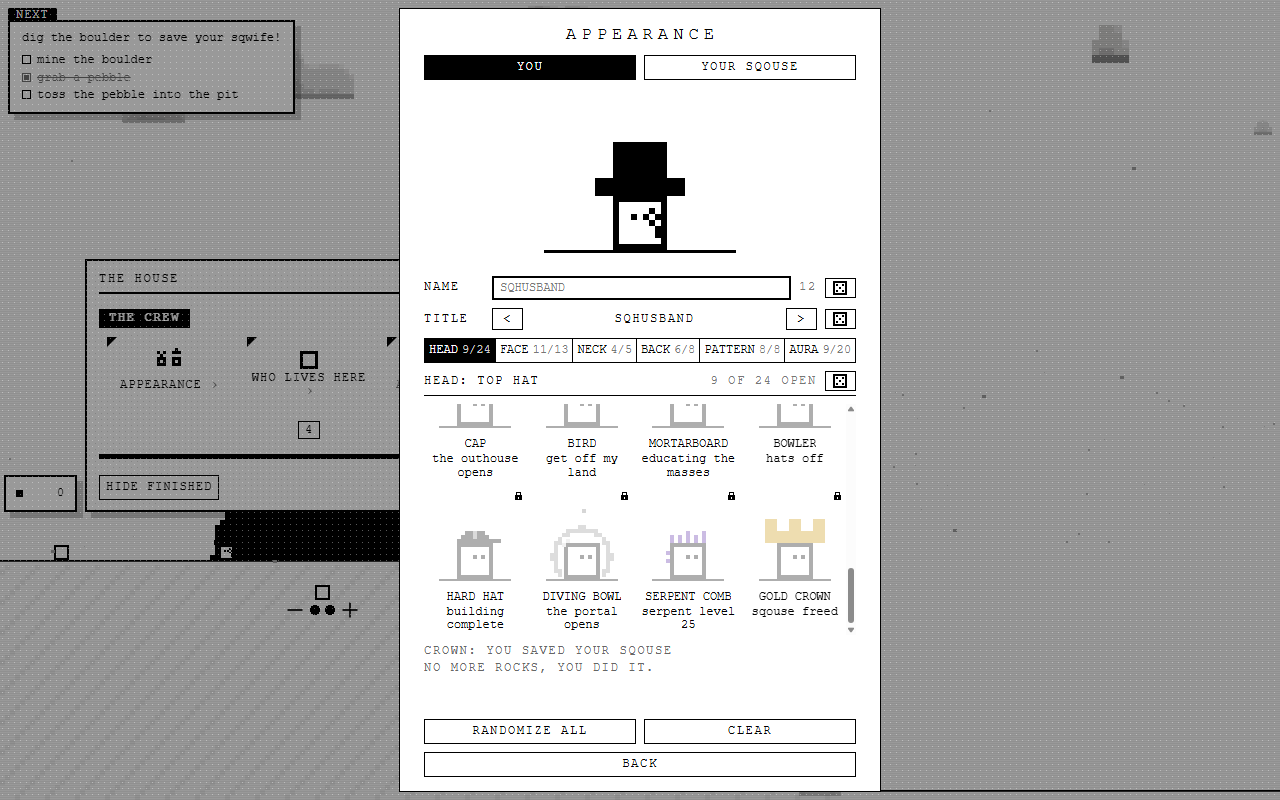
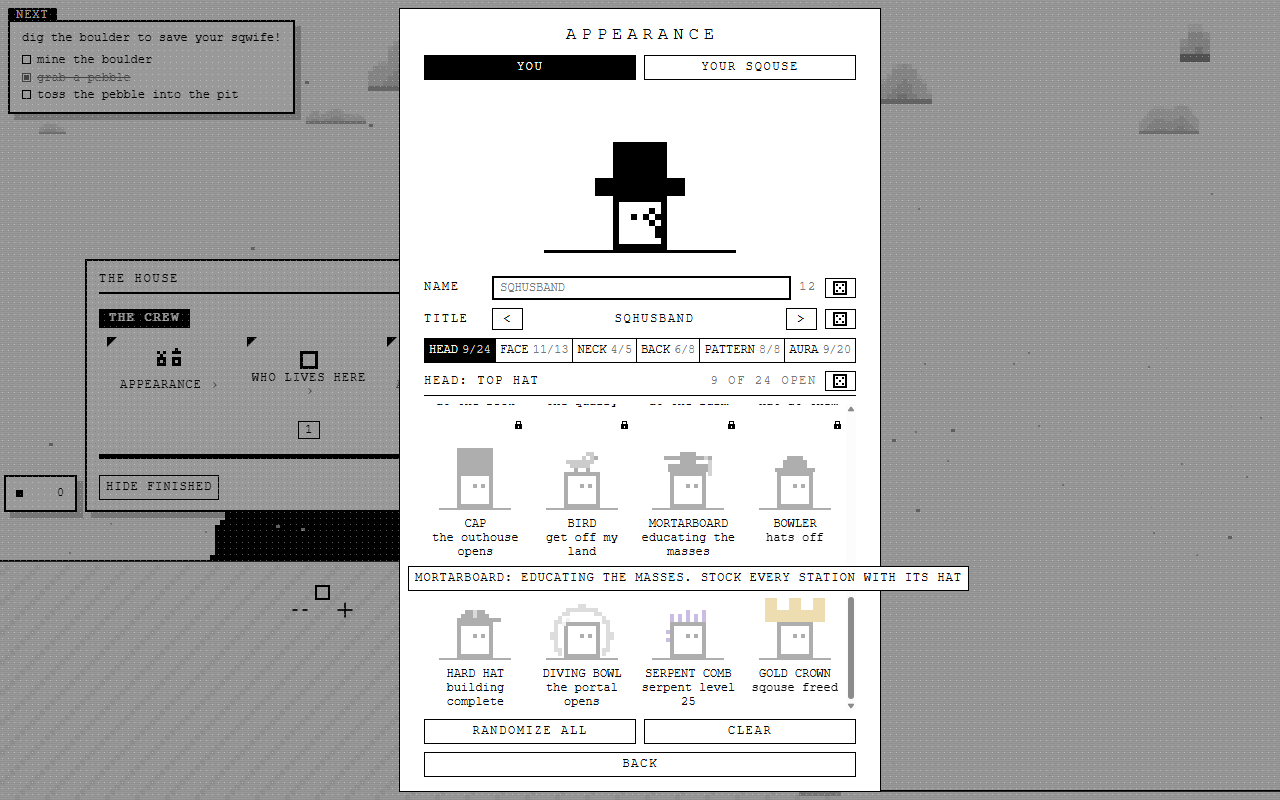
Wardrobe grid: names never cut, lock words in the game's tooltip, info line removed

diff --git a/src/wardrobepage.js b/src/wardrobepage.js
@@ -31,6 +31,7 @@
 
 import { msg, writeInto, has } from './lang.js';
 import { S } from './state.js';
+import { showTipAt } from './board.js';
 import { WORKER, WARD_BIG, WARD_BIG_W, WARD_BIG_H, WARD_TILE_W, WARD_TILE_H, WARD_TILE_K, WARD_TILE_FOOT, WARD_TILE_COLS,
          WARD_TRY_ALPHA, WARD_GRID_ROWS, NAME_MAX, NAME_GRID_COLS, P } from './config.js';
 import { SLOTS, WHO, DEFAULTS, itemOf, bareOf, outfitOf, rollSlot, nameOf, setName, stepRole, rollName,
@@ -255,7 +256,7 @@ function build(el) {
       b.append(c, span('wardtn', msg(it.name)), u, lk);
       b.addEventListener('click', () => wearTile(s.key, it.key));
       const t = { b, c, lk, u, slot: s.key, key: it.key, aura: {} };
-      const on = () => { hot.add(t); sayAbout(); }, off = () => { hot.delete(t); sayAbout(); };
+      const on = () => { hot.add(t); tipFor(t); }, off = () => { hot.delete(t); if (hot.size) tipFor([...hot].pop()); else showTipAt(null); };
       b.addEventListener('pointerenter', on);
       b.addEventListener('pointerleave', off);
       b.addEventListener('focus', on);
@@ -266,13 +267,8 @@ function build(el) {
     grids.appendChild(g);
     gridOf[s.key] = g;
   }
-  // the line under the grid: the tile under the pointer or the focus, what
-  // opens a locked one, and what is being tried on
-  const about = div('wardabout');
-  about.setAttribute('aria-live', 'polite');
-
   const edit = div('wardedit');
-  edit.append(grid, slots, slotHead, grids, about);
+  edit.append(grid, slots, slotHead, grids);
 
   // the confirm steps: the name, or the role word with none, and the role
   const shown = div('wardshown');
@@ -301,7 +297,7 @@ function build(el) {
   el.append(stepEl, tabs, head, edit, shown, foot);
   el.addEventListener('keydown', keys);
   built = { el, stepEl, big, head, fields, tabs, tab, input, count, askBtn, grid, roleRow, rVal, rPrev, rNext, roleDie,
-            slots, slotTab, slotWorn, slotOpen, slotDie, tiles, gridOf, grids, about,
+            slots, slotTab, slotWorn, slotOpen, slotDie, tiles, gridOf, grids,
             nameDie: nameRow.querySelector('.warddie'), edit, shown, back, skip, roll, clear, next };
   // the page's width sets how many rows each grid is, and the parts round
   // the grid their own heights (a font coming in, the letter grid up), so the
@@ -346,13 +342,21 @@ function rowsTall(g, n) {
   const upTo = i => (i ? feet[i - 1].foot - top : 0);
   return upTo(whole) + (part && feet[whole] ? part * (feet[whole].foot - top - upTo(whole)) : 0);
 }
+// Every tile's name in a slot stands as tall as that slot's longest, measured,
+// so a row is even and no name is cut.
+function reserveNames() {
+  for (const g of Object.values(built.gridOf)) {
+    g.style.removeProperty('--tn-h');
+    px(g, '--tn-h', Math.max(0, ...[...g.querySelectorAll('.wardtn')].map(n => n.getBoundingClientRect().height)));
+  }
+}
 function fitGrid() {
   const b = built;
   if (!b || b.edit.hidden || !shownEl(b.el)) return;
+  reserveNames();
   // the tallest slot's, whichever is shown, so the page is one height
   const gs = Object.values(b.gridOf), tall = Math.max(...gs.map(g => g.scrollHeight));
   if (!tall) return;
-  reserveAbout();
   const least = Math.min(tall, Math.max(...gs.map(g => rowsTall(g, WARD_GRID_ROWS))));
   px(b.grids, '--grids-h', tall);
   px(b.grids, '--grids-min', least);
@@ -422,9 +426,10 @@ function say() {
     t.u.textContent = lock ? lockWords(lock.name) : '';
     t.u.hidden = !lock;
     const nm = itemName(t.slot, t.key);
-    t.b.title = lock ? msg('ward-locked', { item: nm, lock: lockWords(lock.name) }) : nm;
+    t.b.setAttribute('aria-label', lock ? lockTip(t) : nm);
   }
-  sayAbout();
+  const lit = [...hot].pop() || built.tiles.find(t => t.b === document.activeElement);
+  if (lit) tipFor(lit);
 
   if (kind !== 'build') showSquares(kind === 'both' ? WHO : [who]);
 
@@ -442,39 +447,20 @@ function say() {
 
 // The line under the grid: the tile the pointer or the focus is on -- its
 // name, and for a locked one what opens it -- and what is being tried on.
-function fillAbout(box, at, tryItem) {
-  box.textContent = '';
-  if (at) {
-    const lock = lockOf(at.slot, at.key), nm = itemName(at.slot, at.key);
-    box.append(span('wardline', lock ? msg('ward-locked', { item: nm, lock: lockWords(lock.name) })
-                                     : msg('ward-grid-head', { slot: msg(SLOTS.find(s => s.key === at.slot).name), item: nm })));
-    if (lock && lock.note) box.append(span('wardline', lockWords(lock.note)));
-  }
-  if (tryItem) box.append(span('wardline', msg('ward-trying', { item: itemName(tryItem.slot, tryItem.key) })));
+// A locked tile's words, in the game's own tooltip (board.js `showTipAt`),
+// under the tile on a hover and on the focus: what it is and what opens it,
+// and the lock's note. An open tile has none; its name is on its face.
+function lockTip(t) {
+  const lock = lockOf(t.slot, t.key);
+  if (!lock) return '';
+  const head = msg('ward-locked', { item: itemName(t.slot, t.key), lock: lockWords(lock.name) });
+  return lock.note ? `${head}. ${lockWords(lock.note)}` : head;
 }
-function sayAbout() {
-  if (!built) return;
-  const at = [...hot].pop() || built.tiles.find(t => t.b === document.activeElement);
-  fillAbout(built.about, at && at.slot === slot ? at : null, tried);
-}
-// The tallest the info line can stand, measured: every tile's words, with the
-// trying line under them, set in the box at its width. The box keeps that
-// height, so hovering never moves the grid or the sheet.
-let aboutAt = '';
-function reserveAbout() {
-  const b = built, box = b.about, w = box.clientWidth, key = `${w}|${msg('ward-trying', { item: '' })}`;
-  if (!w || key === aboutAt) return;
-  aboutAt = key;
-  const keep = [...box.childNodes];
-  box.style.minHeight = '0';
-  let tall = 0;
-  for (const t of b.tiles) {
-    fillAbout(box, t, { slot: t.slot, key: t.key });
-    tall = Math.max(tall, box.getBoundingClientRect().height);
-  }
-  box.replaceChildren(...keep);
-  box.style.minHeight = '';
-  px(box, '--about-h', tall);
+function tipFor(t) {
+  const words = t.slot === slot ? lockTip(t) : '';
+  if (!words) { showTipAt(null); return; }
+  const r = t.b.getBoundingClientRect();
+  showTipAt(words, r.left + r.width / 2, r.bottom + 4, true);
 }
 
 // Each of `list` as a name over its role word; with no name, the role word
@@ -513,6 +499,7 @@ function turnSlot(to) {
   slot = typeof to === 'number' ? SLOTS[(i + to + SLOTS.length) % SLOTS.length].key : to;
   tried = null;
   hot.clear();
+  showTipAt(null);
   say();
 }
 // The tile worn in the slot shown, for the focus to land on.

diff --git a/src/selftest/wardrobe.js b/src/selftest/wardrobe.js
@@ -14,7 +14,7 @@
 
 import { ok, raf, run, canvas, onScreen, hoverHouse, hoverAway } from './kit.js';
 import { S } from '../state.js';
-import { P, WORKER, NAME_MAX, WARD_AURAS, WARD_AURA_FPS, WARD_GRID_ROWS } from '../config.js';
+import { P, WORKER, NAME_MAX, WARD_AURAS, WARD_AURA_FPS, WARD_GRID_ROWS, TEXT_FLOOR } from '../config.js';
 import { advance } from '../clock.js';
 import { draw } from '../render.js';
 import { darkPage } from '../ink.js';
@@ -301,16 +301,24 @@ export const TESTS = [
       const t = tile('head', 'crown');
       const faint = t.classList.contains('lock') && +getComputedStyle(t.querySelector('canvas')).opacity < 0.5
         && getComputedStyle(t.querySelector('.wardlk')).visibility === 'visible';
-      const told = t.title.includes('crown lock');
+      const told = t.getAttribute('aria-label').includes('crown lock');
+      const tipEl = document.getElementById('tip'), tipSays = () => (tipEl.hidden ? '' : tipEl.textContent);
       const count = slotTab('head').textContent.includes(`${HEAD.length - 1}/${HEAD.length}`);
       t.dispatchEvent(new PointerEvent('pointerenter'));
-      const hover = byId('wardrobe').querySelector('.wardabout').textContent;
+      await frames(1);
+      const hover = tipSays(), tipPx = parseFloat(getComputedStyle(tipEl).fontSize);
       t.dispatchEvent(new PointerEvent('pointerleave'));
+      const hoverGone = tipSays() === '';
+      tile('head', 'ears').dispatchEvent(new PointerEvent('pointerenter'));
+      const openTip = tipSays();
+      tile('head', 'ears').dispatchEvent(new PointerEvent('pointerleave'));
+      t.focus();
+      const focused = tipSays();
+      t.blur();
       const plain = greys();
       t.click();
       await frames(3);
       const kept = outfitOf('you').head === 'none';
-      const trying = byId('wardrobe').querySelector('.wardabout').textContent;
       const faintOn = greys();
       // anything open picked takes it off
       tile('head', 'ears').click();
@@ -333,10 +341,12 @@ export const TESTS = [
       }
       await closePicker();
       return [
-        ok(faint && told && count, 'a locked tile is faint, under a lock, says its lock, and is not counted open', t.title),
-        ok(hover.includes('crown lock') && hover.includes('a check holds it'), 'its lock and note under the grid on hover', hover),
-        ok(kept && trying.includes('crown') && faintOn > plain + 20, 'picked, it is tried on the close-up, faint, and not worn',
-           `${outfitOf('you').head} "${trying}" ${plain} > ${faintOn} greys`),
+        ok(faint && told && count, 'a locked tile is faint, under a lock, says its lock, and is not counted open'),
+        ok(hover.includes('crown lock') && hover.includes('a check holds it') && hoverGone, 'its lock and note in the game\'s tooltip on hover, gone when the pointer leaves', hover),
+        ok(focused === hover && openTip === '', 'the same on the focus, and an open tile has none', `${focused} | ${openTip}`),
+        ok(tipPx >= TEXT_FLOOR, 'the tooltip is at the text floor', `${tipPx}px`),
+        ok(kept && faintOn > plain + 20, 'picked, it is tried on the close-up, faint, and not worn',
+           `${outfitOf('you').head} ${plain} > ${faintOn} greys`),
         ok(off, 'an open tile picked wears it and takes the try-on off'),
         ok(left, 'leaving the page keeps nothing tried'),
         ok(shut, 'a roll never wears a locked item')
@@ -833,6 +843,18 @@ export const TESTS = [
             t.dispatchEvent(new win.Event('pointerleave')); t.dispatchEvent(new win.Event('blur'));
           }
         }
+        // no name is cut: it wraps at spaces, never an ellipsis, never wider than its tile
+        const cut = [];
+        for (const s of SLOTS) {
+          d.getElementById(`ward-${s.key}-tab`).click();
+          await paint(2);
+          for (const n of d.querySelectorAll(`.wardtiles[data-slot="${s.key}"] .wardtn`)) {
+            const cs = win.getComputedStyle(n);
+            if (n.scrollWidth > n.clientWidth || n.scrollHeight > n.clientHeight + 1 || cs.textOverflow === 'ellipsis')
+              cut.push(`${s.key}:${n.textContent} ${n.scrollWidth}>${n.clientWidth}`);
+          }
+        }
+        checks.push(ok(cut.length === 0, `${size}: every tile's name shows whole`, cut.slice(0, 4).join('; ')));
         checks.push(ok(moved.length === 0, `${size}: hovering any tile in any slot moves neither the sheet nor the grid`, moved.slice(0, 3).join('; ')));
         page.leaveWardrobe();
         await paint(2);

diff --git a/src/style.css b/src/style.css
@@ -1365,7 +1365,8 @@ body.still #held > :not([hidden]), body.still .col > :not([hidden]) { animation:
 @media (hover: hover) { .held .wardrobe .wardtile:hover { border-color: var(--ink-7); } }
 .held .wardrobe .wardtile.on { color: var(--paper); background: var(--ink); border-color: var(--ink); }
 .held .wardrobe .wardtile.tried { border-style: dashed; border-color: var(--ink); }
-.wardrobe .wardtn { font-size: var(--fs-small); hyphens: none; max-width: 100%; overflow: hidden; text-overflow: ellipsis; white-space: nowrap; }
+.wardrobe .wardtn { font-size: var(--fs-small); hyphens: none; max-width: 100%; white-space: normal; overflow-wrap: normal; word-break: normal;
+                    text-align: center; line-height: 1.15; min-height: var(--tn-h, 0); }
 /* a locked tile: the drawing faint, its words at full ink, and what opens it
    under the name (the owner: show how to unlock), wrapping to two lines and
    no more, so a row of tiles is short enough that two of them stand on a
@@ -1378,7 +1379,6 @@ body.still #held > :not([hidden]), body.still .col > :not([hidden]) { animation:
                     display: -webkit-box; -webkit-box-orient: vertical; -webkit-line-clamp: 2; line-clamp: 2; overflow: hidden; }
 .wardrobe .wardtu[hidden] { display: none; }
 .wardrobe .wardlk { position: absolute; top: 3px; right: 3px; width: 7px; height: 8px; }
-.wardrobe .wardabout { min-height: var(--about-h, 2.6em); display: flex; flex-direction: column; color: var(--ink-4); font-size: var(--fs-small); text-align: left; }
 @media (max-width: 560px), (pointer: coarse) {
   .wardrobe .wardrow { grid-template-columns: 44px 1fr 44px 44px; row-gap: 2px; }
   .wardrobe .wardlabel { grid-column: 1 / 5; font-size: var(--fs-small); }

diff --git a/CHANGELOG.md b/CHANGELOG.md
@@ -183,7 +183,7 @@ this section; the release that switches it on moves these under Unreleased.
 
 - The smallest words in the menus -- the appearance page's tabs and tile names, the boards' row names, the controls table, the settings tabs, the title page's foot -- are no longer too small to read, and every grey word in the menus is dark enough to read on the light page and the dark (src/selftest/textaa.js; test/ui-tokens.test.mjs).
 - The appearance page stays one height as you turn its slot tabs, switch between you and your sqouse, or step through a new yard's build steps (src/selftest/wardrobe.js, "one height").
-- The appearance page's tiles are four to a row and their unlock lines wrap at spaces, not mid-word, and the line under the grid keeps one height as you hover, so the page no longer jumps (src/selftest/wardrobe.js).
+- The appearance page's tiles are four to a row, every name and unlock line shows whole and wraps at spaces, and what opens a locked tile comes up in the game's tooltip; the line under the grid is gone, so hovering never moves the page (src/selftest/wardrobe.js).
 - On a gamepad the focus brackets travel from one thing to the next where you can follow them, up to the corner buttons, onto a board's rows and back, while the camera glides to center each one, both eased in and out (test/pad-glide.test.mjs; src/selftest/pad.js, "the marker travels across to the corner").
 - A late yard with a big crew runs faster, above ground and in the deep (`node tools/node/late-perf.mjs`).
 
